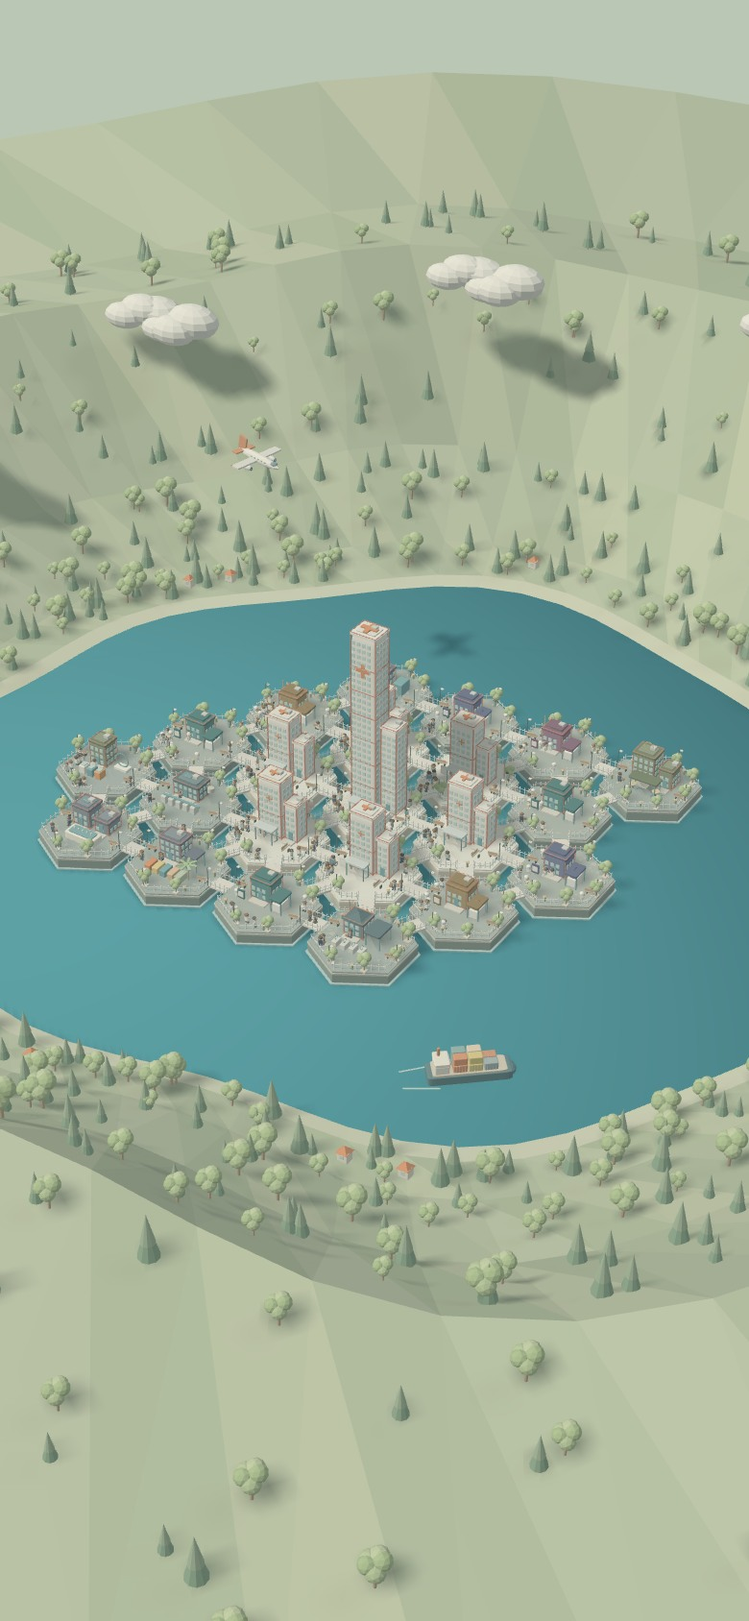
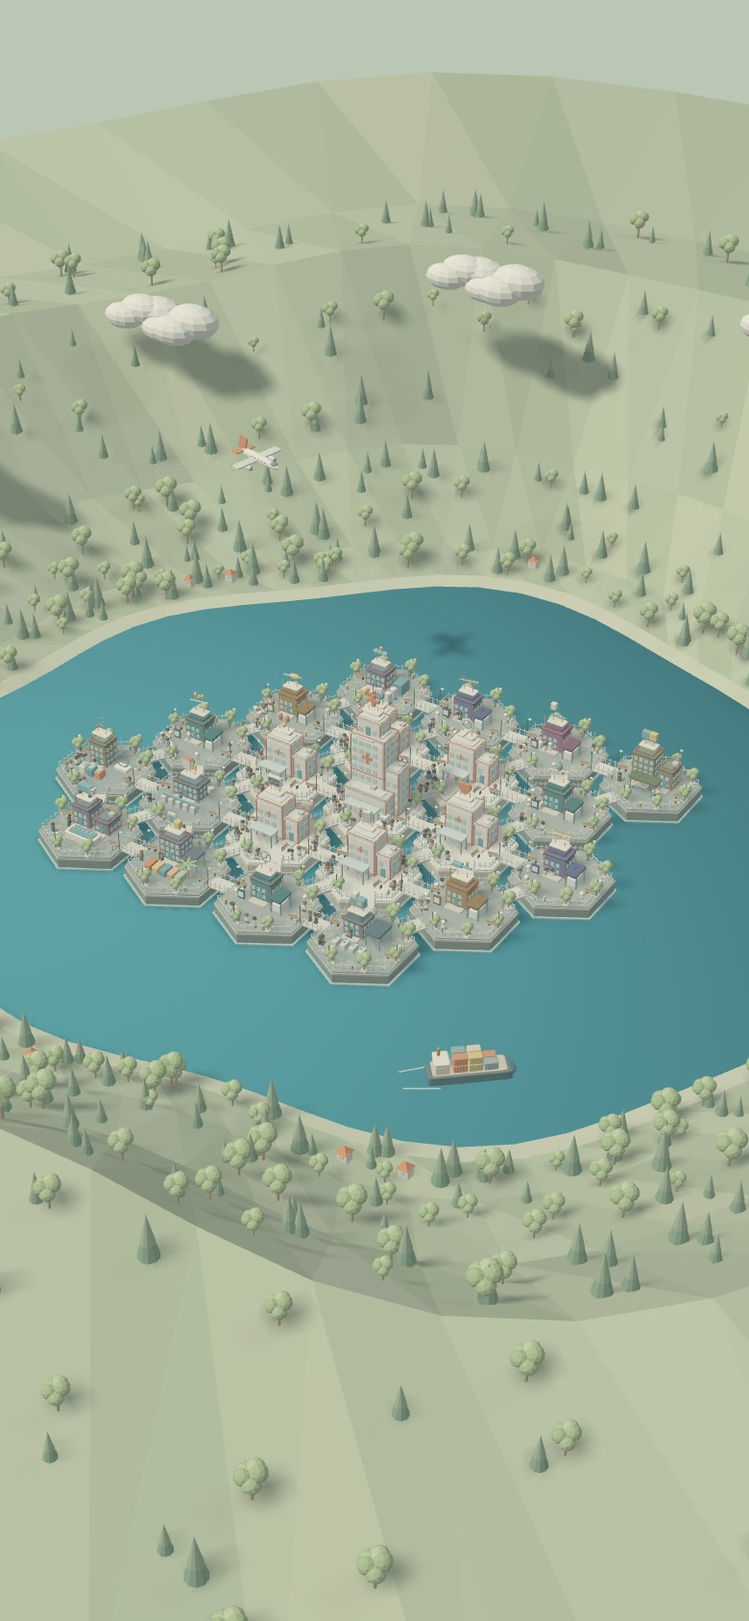
Reshape hospital into a stepped campus and add district rooftop emblems

diff --git a/island-model.js b/island-model.js
@@ -1,7 +1,8 @@
 // Procedural medical town. All architecture and characters are generated here.
 export function buildMedicalTown(T,RoundedBoxGeometry,definitions){
- const root=new T.Group(),parts=[],actors=[],lamps=[],tileCenters=[],doors=[],windowColors=[];
+ const root=new T.Group(),parts=[],actors=[],lamps=[],tileCenters=[],doors=[],windowColors=[],roofs=[],rooftopSymbols=[];
  const G={box:new T.BoxGeometry(1,1,1),round:new RoundedBoxGeometry(1,1,1,2,.09),cyl:new T.CylinderGeometry(.5,.5,1,12),cone:new T.ConeGeometry(.5,1,10),ball:new T.SphereGeometry(.5,12,8),leaf:new T.IcosahedronGeometry(.5,1),hex:new T.CylinderGeometry(.5,.5,1,6),roof:new T.ConeGeometry(.5,1,4),ring:new T.TorusGeometry(.5,.055,8,24)};
+ const heart=new T.Shape();heart.moveTo(0,-.35);heart.bezierCurveTo(-.65,.05,-.35,.60,0,.27);heart.bezierCurveTo(.35,.60,.65,.05,0,-.35);G.heart=new T.ExtrudeGeometry(heart,{depth:.12,bevelEnabled:true,bevelThickness:.025,bevelSize:.025,bevelSegments:1,steps:1,curveSegments:12});
  const C={cream:0xf7f0df,white:0xf6f6ec,coral:0xd96e43,orange:0xe3894e,teal:0x538d95,glass:0xa9d5d2,brown:0xa58263,wood:0xbc9774,ink:0x3c4a48,green:0x89a870,lime:0xaac186,sand:0xe1cd9f,gray:0xc6c6b8};
  // Pale clinical buildings form the center; deeper industrial colors frame them.
  function districtPalette(d){
@@ -32,11 +33,12 @@ export function buildMedicalTown(T,RoundedBoxGeometry,definitions){
  function planter(x,z){box(x,TOP+.09,z,.26,.18,.26,0xc18f6f);bush(x,z,.15)}
  function bin(x,z){box(x,TOP+.17,z,.11,.33,.12,0x739a91);box(x,TOP+.34,z,.13,.035,.14,C.ink)}
  function bunting(a,b){beam(a,b,.009,C.ink);const n=12;for(let j=1;j<n;j++){const f=j/n,x=a[0]+(b[0]-a[0])*f,y=a[1]+(b[1]-a[1])*f-Math.sin(f*Math.PI)*.10,z=a[2]+(b[2]-a[2])*f;box(x,y-.055,z,.07,.11,.018,[C.coral,0xe8c46f,C.teal,C.cream][j%4])}}
- function windows(x,z,w,h,d,y=TOP){for(let floor=0;floor<Math.floor(h/.3);floor++)for(let col=0;col<Math.max(1,Math.floor(w/.25));col++){const xx=x-w/2+.14+col*.25,yy=y+.22+floor*.3;box(xx,yy,z+d/2+.012,.16,.18,.025,C.glass);windowColors.push(parts.length-1)}for(let floor=0;floor<Math.floor(h/.3);floor++)for(let col=0;col<Math.max(1,Math.floor(d/.25));col++){box(x+w/2+.012,y+.22+floor*.3,z-d/2+.14+col*.25,.025,.18,.16,C.glass);windowColors.push(parts.length-1)}}
- function building(x,z,w,h,d,roof=C.coral,modern=false){if(owner>=0&&!doors[owner])doors[owner]={x,z:z+d/2+.035,tile:owner};const palette=currentPalette();if(palette?.clinical)h*=definitions[owner].id==='hospital'?4:2.5;if(palette&&!palette.clinical)roof=palette.roof;box(x,TOP+h/2,z,w,h,d,palette?.wall??C.cream);windows(x,z,w,h-.08,d);box(x,TOP+h+.035,z,w+.10,.10,d+.1,roof);if(modern){box(x,TOP+h+.10,z,w*.76,.08,d*.68,palette&&!palette.clinical?palette.wall:0xe8e5d9);box(x+.18,TOP+h+.2,z-.10,.25,.15,.22,0xc5cac5)}else{p('roof',x,TOP+h+.16,z,w*1.5,.27,d*1.5,roof,Math.PI/4)}// Architectural trim follows the wall volume rather than every window.
- const trim=0xc6604c,stroke=palette?.clinical?.035:.025;for(const dx of [-w/2,w/2])for(const dz of [-d/2,d/2])p('box',x+dx,TOP+h/2,z+dz,stroke,h,stroke,trim);
- for(const yy of [TOP+.05,TOP+h+.09,...Array.from({length:Math.max(0,Math.floor(h/1.15)-1)},(_,j)=>TOP+(j+1)*1.15)]){p('box',x,yy,z+d/2+.012,w+.035,stroke,.028,trim);p('box',x,yy,z-d/2-.012,w+.035,stroke,.028,trim);p('box',x-w/2-.012,yy,z,.028,stroke,d+.035,trim);p('box',x+w/2+.012,yy,z,.028,stroke,d+.035,trim)}
- box(x,TOP+.24,z+d/2+.03,.20,.48,.04,C.teal);box(x,TOP+.04,z+d/2+.19,w*.8,.08,.32,0xd8d5c8)}
+ function windows(x,z,w,h,d,y=TOP){const clinical=currentPalette()?.clinical,py=clinical?.42:.30,px=clinical?.34:.25,ww=clinical?.23:.16,wh=clinical?.24:.18;for(let floor=0;floor<Math.floor(h/py);floor++)for(let col=0;col<Math.max(1,Math.floor(w/px));col++){const xx=x-w/2+px*.56+col*px,yy=y+.25+floor*py;box(xx,yy,z+d/2+.012,ww,wh,.025,C.glass);windowColors.push(parts.length-1)}for(let floor=0;floor<Math.floor(h/py);floor++)for(let col=0;col<Math.max(1,Math.floor(d/px));col++){box(x+w/2+.012,y+.25+floor*py,z-d/2+px*.56+col*px,.025,wh,ww,C.glass);windowColors.push(parts.length-1)}}
+ function building(x,z,w,h,d,roof=C.coral,modern=false,base=TOP){if(owner>=0&&!doors[owner])doors[owner]={x,z:z+d/2+.035,tile:owner};const palette=currentPalette();if(palette?.clinical)h*=definitions[owner].id==='hospital'?2:1.5;if(palette&&!palette.clinical)roof=palette.roof;box(x,base+h/2,z,w,h,d,palette?.wall??C.cream);windows(x,z,w,h-.08,d,base);box(x,base+h+.035,z,w+.10,.10,d+.1,roof);if(modern){box(x,base+h+.10,z,w*.76,.08,d*.68,palette&&!palette.clinical?palette.wall:0xe8e5d9);box(x+.18,base+h+.2,z-.10,.25,.15,.22,0xc5cac5)}else{p('roof',x,base+h+.16,z,w*1.5,.27,d*1.5,roof,Math.PI/4)}if(owner>=0&&(!roofs[owner]||base+h>roofs[owner].y))roofs[owner]={x,z,y:base+h+.34};
+ // Architectural trim follows the wall volume rather than every window.
+ const trim=0xc6604c,stroke=palette?.clinical?.035:.025;for(const dx of [-w/2,w/2])for(const dz of [-d/2,d/2])p('box',x+dx,base+h/2,z+dz,stroke,h,stroke,trim);
+ for(const yy of [base+.05,base+h+.09,...(h>2.5?[base+h*.50]:[])]){p('box',x,yy,z+d/2+.012,w+.035,stroke,.028,trim);p('box',x,yy,z-d/2-.012,w+.035,stroke,.028,trim);p('box',x-w/2-.012,yy,z,.028,stroke,d+.035,trim);p('box',x+w/2+.012,yy,z,.028,stroke,d+.035,trim)}
+ box(x,base+.24,z+d/2+.03,.20,.48,.04,C.teal);box(x,base+.04,z+d/2+.19,w*.8,.08,.32,0xd8d5c8)}
  function cross(x,y,z,size=.28){box(x,y,z,size,.07,size*.27,C.coral);box(x,y,z,size*.27,.07,size,C.coral)}
  function canopy(x,z,w=1.3,d=.6){for(const dx of [-w*.43,w*.43])for(const dz of [-d*.4,d*.4])cyl(x+dx,TOP+.33,z+dz,.025,.66,C.teal);box(x,TOP+.68,z,w,.09,d,currentPalette()?.roof??C.coral)}
  function tank(x,z,r=.25,h=.65){cyl(x,TOP+h/2,z,r,h,0xe4e8df);ball(x,TOP+h,z,r,0xe7ebe2,[1,.35,1]);cyl(x,TOP+.10,z,r*1.08,.08,C.teal);beam([x+r,TOP+.30,z],[x+r+.28,TOP+.30,z],.04,C.teal)}
@@ -66,7 +68,7 @@ export function buildMedicalTown(T,RoundedBoxGeometry,definitions){
  function ambulance(x,z,ry=0){box(x,TOP+.17,z,.35,.27,.72,C.white,ry);box(x,TOP+.37,z-.12,.31,.18,.35,C.white,ry);box(x,TOP+.39,z+.075,.32,.15,.025,C.glass,ry);box(x,TOP+.50,z-.13,.16,.045,.07,C.coral,ry);for(const dx of [-.19,.19])for(const dz of [-.22,.22])p('cyl',x+dx,TOP+.075,z+dz,.15,.045,.15,0x49524a,0,Math.PI/2);cross(x,TOP+.315,z+.1,.18)}
  function tables(x,z){cyl(x,TOP+.23,z,.17,.035,0xe2c086);cyl(x,TOP+.12,z,.025,.23,C.ink);for(let j=0;j<3;j++){const a=j*2.094;box(x+Math.cos(a)*.23,TOP+.13,z+Math.sin(a)*.23,.13,.03,.13,C.teal);cyl(x+Math.cos(a)*.23,TOP+.07,z+Math.sin(a)*.23,.012,.13,C.ink)}}
 
- function clinic(x,z,d){const roof=new T.Color(d.color).lerp(new T.Color(0xf6f1e3),.62).getHex();building(x-.30,z-.35,1.12,1.10,.90,roof,true);building(x+.65,z-.40,.60,.70,.72,roof,true);cross(x-.30,TOP+1.10*2.5+.19,z-.35,.46);box(x-.30,TOP+1.9,z+.115,.30,.065,.035,C.coral);box(x-.30,TOP+1.9,z+.115,.065,.30,.035,C.coral);canopy(x-.25,z+.48,.95,.44);bench(x+.85,z+.65,Math.PI/2);box(x-.90,TOP+.45,z+.52,.33,.42,.045,roof);box(x-.90,TOP+.45,z+.55,.24,.24,.015,C.white)}
+ function clinic(x,z,d){const roof=new T.Color(d.color).lerp(new T.Color(0xf6f1e3),.42).getHex();building(x-.30,z-.35,1.30,1.10,.95,roof,true);building(x+.70,z-.40,.65,.70,.78,roof,true);box(x-.30,TOP+1.12,z+.14,.30,.065,.035,C.coral);box(x-.30,TOP+1.12,z+.14,.065,.30,.035,C.coral);canopy(x-.25,z+.63,1.18,.50);bench(x+.85,z+.65,Math.PI/2);box(x-.98,TOP+.45,z+.52,.33,.42,.045,roof);box(x-.98,TOP+.45,z+.55,.24,.24,.015,C.white)}
  function techLab(x,z,d){const color=districtPalette(d).roof;building(x-.34,z-.40,.98,.92,.82,color,true);box(x-.34,TOP+1.08,z-.40,.80,.09,.60,color);canopy(x+.63,z+.03,.57,.85);box(x+.63,TOP+.22,z+.03,.40,.42,.62,C.white);box(x+.63,TOP+.46,z+.03,.30,.055,.48,color);box(x-.94,TOP+.43,z+.52,.34,.44,.05,color);box(x-.94,TOP+.43,z+.555,.25,.25,.02,C.white);if(d.family==='surface'){for(let j=0;j<3;j++){cyl(x+.5+j*.13,TOP+.53,z+.04,.035,.16,C.glass)}}else if(d.family==='structure'){p('ring',x+.63,TOP+.65,z+.03,.29,.29,.20,color,Math.PI/2)}else if(d.family==='forming'){ball(x+.63,TOP+.62,z+.03,.15,color,[1.2,1,.7])}else{beam([x+.63,TOP+.63,z-.1],[x+.63,TOP+.48,z+.16],.028,color)}}
  function courtyard(t){const {x,z,i}=t,d=definitions[i],palette=districtPalette(d);owner=i;
  p('hex',x,.10,z,R*2.09,.06,R*2.09,0x94c6c8);p('hex',x,.32,z,R*2,.42,R*2,palette.base);p('hex',x,.56,z,R*2.015,.08,R*2.015,palette.clinical?C.cream:0xb5bba9);p('hex',x,.63,z,R*1.98,.065,R*1.98,palette.ground);
@@ -93,14 +95,48 @@ export function buildMedicalTown(T,RoundedBoxGeometry,definitions){
  case 9:building(X-.5,Z-.48,.9,.7,.8);canopy(X+.52,Z-.3,.75,1.0);for(let j=0;j<4;j++){box(X-.8+j*.4,TOP+.13,Z+.67,.24,.25,.4,0xd4d9cd);p('ring',X-.8+j*.4,TOP+.35,Z+.67,.17,.17,.17,C.teal,Math.PI/2)}break;
  case 10:building(X-.5,Z-.5,.85,.9,.9,C.coral,true);building(X+.55,Z-.5,.7,.58,.85,C.white,true);box(X+.15,TOP+.18,Z+.65,1.5,.36,.65,C.cream);box(X+.15,TOP+.38,Z+.65,1.2,.055,.48,C.teal);for(let j=0;j<5;j++)cyl(X-.3+j*.22,TOP+.45,Z+.65,.035,.10,C.cream);solar(X-.5,TOP+1.06,Z-.5);break;
  case 11:building(X-.45,Z-.45,.85,1.1,.8,C.coral,true);p('ring',X+.65,TOP+.50,Z-.35,.64,.64,.30,C.teal);box(X+.65,TOP+.10,Z-.35,.7,.15,.4,C.white);for(let j=0;j<3;j++){box(X-.65+j*.42,TOP+.20,Z+.65,.32,.38,.42,[C.cream,C.teal,C.orange][j]);box(X-.65+j*.42,TOP+.41,Z+.65,.22,.05,.25,C.glass)}break;
- case 12:building(X-.42,Z-.30,1.20,2.10,1.02,C.white,true);building(X+.72,Z-.38,.75,1.05,.85,C.white,true);cross(X-.42,TOP+2.10*4+.18,Z-.30,.78);box(X-.42,TOP+6.8,Z+.225,.66,.16,.05,C.coral);box(X-.42,TOP+6.8,Z+.225,.16,.66,.05,C.coral);canopy(X,Z+.78,1.45,.48);ambulance(X+.92,Z+.72);statue(X-1.08,Z-.98);break;
+ case 12:building(X,Z+.43,2.10,.55,.65,0xb9d3ce,true);building(X-.25,Z-.40,1.65,1.75,1.12,0xcbdcd5,true);building(X-.32,Z-.43,1.15,.35,.78,0xcbdcd5,true,TOP+3.5);building(X+.85,Z-.42,.70,1.05,.87,0xb9d3ce,true);box(X-.25,TOP+2.55,Z+.18,.52,.13,.05,C.coral);box(X-.25,TOP+2.55,Z+.18,.13,.52,.05,C.coral);canopy(X,Z+.96,1.60,.48);ambulance(X+1.03,Z+.90);statue(X-1.12,Z-.98);break;
  case 13:building(X-.45,Z-.55,1.05,1.0,.8,C.coral,true);canopy(X+.65,Z-.35,.6,.7);for(let j=0;j<5;j++)box(X-.85+j*.38,TOP+.16,Z+.65,.30,.31,.57,[C.coral,0xe5bf6d,C.teal,0xd9a879,0xa8bc9c][j]);palm(X+.9,Z+.5,.8);break;
  case 14:building(X-.40,Z-.38,1.0,1.35,.88,0x73989e,true);building(X+.65,Z-.43,.62,.9,.80,0x73989e,true);canopy(X,Z+.58,1.35,.60);tables(X-.55,Z+.62);tables(X+.55,Z+.62);p('ring',X-.40,TOP+1.63,Z-.38,.40,.40,.14,0xc8a258);break;
  }
  if(d.role==='factory'){for(let j=0;j<5;j++){const a=j/5*Math.PI*2,px=X+Math.sin(a)*1.30,pz=Z+Math.cos(a)*1.30;cyl(px,TOP+.13,pz,.035,.26,C.gray);box(px,TOP+.28,pz,.30,.045,.25,C.white);box(px,TOP+.37,pz,.16,.14,.10,C.teal)}}
  if(i%3===0){cyl(X-1.25,TOP+.48,Z-.95,.028,.95,C.wood);cyl(X+1.25,TOP+.48,Z-.95,.028,.95,C.wood);bunting([X-1.25,TOP+.95,Z-.95],[X+1.25,TOP+.95,Z-.95]);}
  }
+ // One physical rooftop emblem per district; auxiliary buildings stay uncluttered.
+ function roofEmblem(i){const a=roofs[i],d=definitions[i];if(!a)return;owner=i;const x=a.x,z=a.z,y=a.y+.38,red=0xd37452,blue=0x649da6,ivory=0xf4e9d5,gold=0xe6bd68;
+  box(x,a.y+.015,z,.80,.055,.50,ivory);for(const dx of [-.22,.22])beam([x+dx,a.y-.18,z],[x+dx,y-.12,z],.026,C.brown);
+  const b=(dx,dy,dz,w,h,l,c=blue)=>box(x+dx,y+dy,z+dz,w,h,l,c),v=(A,B,r=.04,c=blue)=>beam([x+A[0],y+A[1],z+A[2]],[x+B[0],y+B[1],z+B[2]],r,c),sphere=(dx,dy,dz,r,c=blue,s=[1,1,1])=>ball(x+dx,y+dy,z+dz,r,c,s),ring=(dx,dy,dz,s,c=blue,ry=0)=>p('ring',x+dx,y+dy,z+dz,s,s,s,c,ry);
+  const tube=(color=blue)=>{v([-.48,.10,0],[.45,.23,0],.055,color);sphere(.45,.23,0,.04,color)};
+  let label='';
+  switch(d.id){
+   case'hospital':label='醫療十字';b(0,.14,0,.57,.15,.14,red);b(0,.14,0,.15,.57,.14,red);break;
+   case'cardio':label='心臟與血管';p('heart',x,y+.06,z,.75,.75,.75,red);v([.05,.35,0],[.05,.55,0],.065,blue);break;
+   case'nephro':label='透析濾器';b(0,.13,0,.38,.55,.20,ivory);for(let k=-2;k<=2;k++)v([k*.055,-.10,.12],[k*.055,.35,.12],.018,blue);v([-.35,-.15,0],[-.35,.40,0],.035,red);v([-.35,.40,0],[0,.44,0],.035,red);break;
+   case'icu':label='生理監視器';b(0,.14,0,.66,.45,.16,ivory);b(0,.14,.09,.56,.33,.025,0x365e65);for(const[A,B]of [[[-.24,.12,.11],[-.10,.12,.11]],[[-.10,.12,.11],[-.04,.25,.11]],[[-.04,.25,.11],[.03,.02,.11]],[[.03,.02,.11],[.10,.17,.11]],[[.10,.17,.11],[.25,.17,.11]]])v(A,B,.023,gold);break;
+   case'uro':label='泌尿道示意';sphere(-.18,.26,0,.14,red,[.75,1.3,.55]);sphere(.18,.26,0,.14,red,[.75,1.3,.55]);v([-.16,.15,0],[0,-.10,0],.025,blue);v([.16,.15,0],[0,-.10,0],.025,blue);sphere(0,-.10,0,.11,gold);break;
+   case'ward':label='輸液袋';v([-.28,-.18,0],[-.28,.55,0],.025,C.ink);v([-.28,.55,0],[.14,.55,0],.025,C.ink);b(.07,.23,0,.29,.42,.13,ivory);b(.07,.15,.08,.22,.16,.025,blue);v([.07,.02,0],[.29,-.18,0],.025,blue);break;
+   case'radiology':label='影像掃描環';ring(0,.18,0,.56,ivory);ring(0,.18,.02,.39,blue);b(0,-.12,.22,.23,.08,.65,ivory);break;
+   case't-balloon':label='球囊導管';tube(ivory);sphere(.12,.18,0,.17,gold,[1.65,.75,.75]);ring(-.33,.12,0,.15,blue,Math.PI/2);break;
+   case't-braid':label='編織管';tube(ivory);for(const side of [-1,1])for(let k=0;k<2;k++)for(let n=0;n<22;n++){const q=n/22,r=(n+1)/22,A=q*Math.PI*5*side+k*Math.PI,B=r*Math.PI*5*side+k*Math.PI;v([-.44+q*.88,.16+Math.cos(A)*.13,Math.sin(A)*.13],[-.44+r*.88,.16+Math.cos(B)*.13,Math.sin(B)*.13],.022,side<0?red:blue)}break;
+   case't-coil':label='繞簧管';tube(ivory);for(let n=0;n<65;n++){const q=n/65,r=(n+1)/65,A=q*Math.PI*16,B=r*Math.PI*16;v([-.42+q*.84,.17+Math.cos(A)*.14,Math.sin(A)*.14],[-.42+r*.84,.17+Math.cos(B)*.14,Math.sin(B)*.14],.026,gold)}break;
+   case't-extrude':label='變徑管段';v([-.44,.15,0],[-.02,.15,0],.23,blue);v([-.02,.15,0],[.42,.15,0],.10,blue);ring(-.43,.15,0,.24,ivory,Math.PI/2);ring(.42,.15,0,.11,ivory,Math.PI/2);break;
+   case't-laser':label='雷射加工頭';b(-.20,.38,0,.25,.31,.22,ivory);v([-.20,.22,0],[.18,-.05,0],.025,red);v([-.25,-.08,0],[.40,-.08,0],.10,blue);sphere(.18,-.05,0,.06,gold);break;
+   case't-hydro':label='水滴與導管';tube(ivory);sphere(0,.36,0,.17,blue,[.8,1,.65]);p('cone',x,y+.53,z,.19,.25,.16,blue);break;
+   case't-anti-bac':label='細菌阻隔示意';tube(ivory);ring(0,.32,0,.46,blue);v([-.19,.12,.04],[.19,.52,.04],.045,red);sphere(0,.32,0,.065,gold);for(let n=0;n<6;n++){const q=n*Math.PI/3;v([Math.cos(q)*.06,.32+Math.sin(q)*.06,0],[Math.cos(q)*.12,.32+Math.sin(q)*.12,0],.018,gold)}break;
+   case't-anti-enc':label='結晶阻隔示意';tube(ivory);for(let k=-1;k<=1;k++)p('leaf',x+k*.19,y+.40+Math.abs(k)*.07,z,.18,.24,.14,gold);v([-.29,.22,.10],[.29,.57,.10],.043,red);break;
+   case'materials':label='原料袋與粒子';b(-.13,.14,0,.38,.48,.25,ivory);b(-.13,.38,0,.36,.045,.25,red);for(let k=0;k<5;k++)sphere(.14+(k%2)*.14,.02+Math.floor(k/2)*.10,.05,.065,gold);break;
+   case'components':label='接頭零件';v([-.37,.15,0],[.37,.15,0],.18,blue);ring(-.23,.15,0,.26,ivory,Math.PI/2);ring(.23,.15,0,.26,ivory,Math.PI/2);v([0,.15,0],[0,.43,0],.14,gold);break;
+   case'equipment':label='加工設備';b(0,.09,0,.65,.38,.30,blue);b(-.15,.36,0,.24,.22,.25,ivory);b(.14,.12,.17,.20,.16,.025,gold);v([-.15,.24,0],[-.15,.02,0],.05,red);break;
+   case'packaging':label='醫材包裝袋';b(-.12,.15,0,.40,.54,.09,ivory);b(-.12,.16,.06,.28,.33,.025,blue);b(.24,.06,.10,.28,.32,.27,gold);b(.24,.06,.25,.045,.32,.015,ivory);break;
+   case'validation':label='檢測放大鏡';ring(.02,.23,0,.40,blue);v([-.12,.08,0],[-.34,-.17,0],.075,red);v([-.06,.19,.02],[.01,.11,.02],.025,gold);v([.01,.11,.02],[.12,.29,.02],.025,gold);break;
+   case'logistics':label='物流貨車';b(0,.10,0,.68,.34,.28,blue);b(.34,.06,0,.24,.27,.28,ivory);b(.36,.16,.15,.15,.09,.025,blue);for(const dx of [-.22,.32])sphere(dx,-.11,.15,.085,C.ink);break;
+   case'oem':label='合作拼接模組';b(-.16,.13,0,.35,.36,.24,blue);b(.18,.13,0,.35,.36,.24,gold);sphere(0,.16,.02,.09,ivory);break;
+  }
+  rooftopSymbols.push({tile:i,label,x,z,y:a.y});
+ }
+
  tileCenters.forEach(courtyard);
+ tileCenters.forEach(c=>roofEmblem(c.i));
  // Short canal crossings are walking passages; they do not encode content relationships.
  const routes=[];owner=-1;
  tileCenters.forEach(a=>edgeSteps.forEach((_,edge)=>{const other=neighbor(a.i,edge);if(other===undefined||other<=a.i)return;const b=tileCenters[other],len=Math.hypot(b.x-a.x,b.z-a.z),dx=(b.x-a.x)/len,dz=(b.z-a.z)/len,ry=Math.atan2(dx,dz),start=[a.x+dx*1.68,a.z+dz*1.68],end=[b.x-dx*1.68,b.z-dz*1.68];routes.push({a:a.i,b:other,kind:'walkway'});box((a.x+b.x)/2,TOP-.05,(a.z+b.z)/2,.70,.10,len-3.36,0xe3ddd0,ry);for(const side of [-1,1]){const nx=dz*.34*side,nz=-dx*.34*side;fence(start[0]+nx,start[1]+nz,end[0]+nx,end[1]+nz,0)}}));
@@ -186,5 +222,5 @@ export function buildMedicalTown(T,RoundedBoxGeometry,definitions){
   root.updateMatrixWorld(true);for(const{mesh,color}of vehicleMeshes){if(!mesh.parent.visible)continue;const pos=new T.Vector3(),q=new T.Quaternion(),scale=new T.Vector3();mesh.matrixWorld.decompose(pos,q,scale);const e=new T.Euler().setFromQuaternion(q),geo=mesh.geometry;out.push({kind:'transport',positions:Array.from(geo.attributes.position.array),indices:geo.index?Array.from(geo.index.array):null,items:[{pos:pos.toArray(),scale:scale.toArray(),rot:[e.x,e.y,e.z],color}]})}
   return {centers:tileCenters,batches:out,landscape};
  }
- return Object.assign(api,{root,tileCenters,landscape,transport,vehicles,updateTransport,staticMeshes,parts,actors,geometries:G,updatePeople,setNight,lamps,routes,doors,navigation:{nodes,doorIds,stations},constants:{TOP,R},exportRender});
+ return Object.assign(api,{root,tileCenters,rooftopSymbols,roofs,landscape,transport,vehicles,updateTransport,staticMeshes,parts,actors,geometries:G,updatePeople,setNight,lamps,routes,doors,navigation:{nodes,doorIds,stations},constants:{TOP,R},exportRender});
 }

diff --git a/island.html b/island.html
@@ -133,7 +133,7 @@ function detailBody(t){if(t.type==='dept'){
 }
 function showList(){window.medtechScene?.home();window.previewMarker?.select(-1);$('#personCard')?.remove();selected=null;window.syncPreviewRelations?.();resetHighlights();target.x=0;target.z=0;target.zoom=1;querySeq++;recordSeq++;$('#sceneTitle').textContent='點編號探索醫材分區。';$('#sideContent').innerHTML=`<h2>把需求，連起來。</h2><p class="side-lead">以蜂窩排列的醫材分區，地塊間保留水道與短橋，外圍以山林湖岸環繞。中央醫院、六個科別，連結技術與供應服務。點科別看產品，開啟「關聯」看對應。</p><div class="searchwrap"><input id="listSearch" type="search" placeholder="搜尋產品、技術、關鍵字…" aria-label="搜尋地塊" value="${esc(listQuery)}"></div><div class="filtertabs"><button data-filter="all">全部</button><button data-filter="dept">科別</button><button data-filter="tech">技術分區</button><button data-filter="supplier">供應服務</button><button data-filter="market">醫院與客戶</button></div><div class="tile-list" id="tileList"></div><div class="side-foot"><span class="live-dot"></span>商情資料來自歐噴資料庫。<br>蜂窩分區供內容導覽，相鄰不代表合作。產品與技術對應請看「關聯」；＊為推定或待確認。</div>`;renderList();$('#listSearch').addEventListener('input',e=>{listQuery=e.target.value;renderList()})}
 function renderList(){const q=listQuery.trim().toLowerCase(),hits=C.products.filter(p=>p.name.toLowerCase().includes(q)),list=tiles.filter(t=>(filter==='all'||t.type===filter)&&((t.name+t.en+t.tags.join('')).toLowerCase().includes(q)||hits.some(p=>p.dept===t.id)));$('#tileList').innerHTML=list.length?list.map(t=>`<button class="tile-item" data-tile="${t.i}"><span class="tile-icon" style="background:${t.color}">${t.icon}</span><span><span class="title">${t.name}</span><span class="subtitle">${t.en}</span>${q&&hits.some(p=>p.dept===t.id)?`<small class="search-match">含：${hits.filter(p=>p.dept===t.id).map(p=>esc(p.name)).join('、')}</small>`:''}</span><span class="arrow">↗</span></button>`).join(''):'<p class="empty">沒有相符的方向，請換個關鍵字。</p>';document.querySelectorAll('[data-filter]').forEach(b=>b.classList.toggle('active',b.dataset.filter===filter))}
-function choose(i){if(!tiles[i])return;resetHighlights();$('#personCard')?.remove();window.previewMarker?.select(i);selected=tiles[i];window.syncPreviewRelations?.();window.medtechScene?.focus(i);target.x=selected.x;target.z=selected.z;target.zoom=1.32;$('#sceneTitle').textContent=selected.name+' · '+selected.tags.join('／');$('#sideContent').innerHTML=`<button class="back" id="backList">← 回到探索清單</button><div class="detail-top"><div class="thumb-wrap"><img id="detailThumb" src="town-preview.jpg?v=14" alt="${selected.name}島嶼場景"><span>${selected.icon}</span></div><div><p class="detail-num">${String(i+1).padStart(2,'0')} / ${selected.en}</p><h2>${selected.name}</h2></div></div><p class="side-lead">${esc(selected.description)}</p><div class="tags">${selected.tags.map(t=>`<span>${esc(t)}</span>`).join('')}</div>${detailBody(selected)}<section class="public-query"><h3 class="results-heading">歐噴資料庫查詢</h3><form class="query-form" id="queryForm"><input id="query" aria-label="歐噴關鍵字" value="${selected.query}" required><button class="primary">搜尋 ↗</button></form>${authHTML()}<div id="queryResults"><p class="status">正在搜尋公開索引…</p></div><div id="records"></div><p class="source-note">來源：<a href="https://data.openfun.tw/" target="_blank" rel="noopener noreferrer">歐噴資料庫</a>。索引條目不等同採購需求，請核對原始來源。</p></section>`;$('#sidebar').scrollTop=0;document.body.classList.add('panel-open');runQuery(selected.query)}
+function choose(i){if(!tiles[i])return;resetHighlights();$('#personCard')?.remove();window.previewMarker?.select(i);selected=tiles[i];window.syncPreviewRelations?.();window.medtechScene?.focus(i);target.x=selected.x;target.z=selected.z;target.zoom=1.32;$('#sceneTitle').textContent=selected.name+' · '+selected.tags.join('／');$('#sideContent').innerHTML=`<button class="back" id="backList">← 回到探索清單</button><div class="detail-top"><div class="thumb-wrap"><img id="detailThumb" src="town-preview.jpg?v=15" alt="${selected.name}島嶼場景"><span>${selected.icon}</span></div><div><p class="detail-num">${String(i+1).padStart(2,'0')} / ${selected.en}</p><h2>${selected.name}</h2></div></div><p class="side-lead">${esc(selected.description)}</p><div class="tags">${selected.tags.map(t=>`<span>${esc(t)}</span>`).join('')}</div>${detailBody(selected)}<section class="public-query"><h3 class="results-heading">歐噴資料庫查詢</h3><form class="query-form" id="queryForm"><input id="query" aria-label="歐噴關鍵字" value="${selected.query}" required><button class="primary">搜尋 ↗</button></form>${authHTML()}<div id="queryResults"><p class="status">正在搜尋公開索引…</p></div><div id="records"></div><p class="source-note">來源：<a href="https://data.openfun.tw/" target="_blank" rel="noopener noreferrer">歐噴資料庫</a>。索引條目不等同採購需求，請核對原始來源。</p></section>`;$('#sidebar').scrollTop=0;document.body.classList.add('panel-open');runQuery(selected.query)}
 function goProduct(id){const p=C.products.find(p=>p.id===id);if(!p)return;choose(tileById(p.dept).i);const el=$('#product-'+id);if(!el)return;el.classList.add('product-highlight');el.scrollIntoView({block:'start',behavior:paused?'auto':'smooth'});setTimeout(()=>el.classList.remove('product-highlight'),2400)}
 function showTechMap(){querySeq++;recordSeq++;selected=null;$('#personCard')?.remove();window.medtechScene?.home();window.previewMarker?.select(-1);resetHighlights();const ordered=['surface','structure','forming','process'].flatMap(f=>C.techs.filter(t=>t.family===f));$('#sceneTitle').textContent='從產品應用，走向技術與共用能力。';$('#sideContent').innerHTML=`<button class="back" id="backList">← 回到探索清單</button><h2>技術地圖</h2><p class="side-lead">八座技術分區，十二項共用能力。點能力欄頭，查看共用能力的技術分區。</p><div class="matrix-scroll" tabindex="0" role="region" aria-label="技術與共用能力矩陣，可左右滑動"><table class="cap-matrix"><caption>技術 × 共用能力</caption><thead><tr><th scope="col">技術分區</th>${C.capabilities.map(c=>`<th scope="col"><button data-capability="${c.id}" aria-pressed="false">${esc(c.name)}</button></th>`).join('')}</tr></thead><tbody>${ordered.map((t,i)=>{const f=C.families[t.family],newFamily=i===0||ordered[i-1].family!==t.family;return `${newFamily?`<tr class="family-row"><th colspan="${C.capabilities.length+1}" style="color:${f.color}">${f.name}</th></tr>`:''}<tr><th scope="row"><button data-tech="${t.id}">${esc(tileById(t.id).name)}</button></th>${C.capabilities.map(c=>`<td class="${c.techs.includes(t.id)?'has-cap':''}">${c.techs.includes(t.id)?`<span style="background:${f.color}" role="img" aria-label="使用${esc(c.name)}"></span>`:'<span class="sr-only">未共用</span>'}</td>`).join('')}</tr>`}).join('')}</tbody></table></div><p class="content-note">＊分區為本站整理。圓點表示能力項目有對應關鍵字，不代表完成度。</p><p id="capStatus" class="status" role="status">選擇能力可標亮島名。</p><h3 class="results-heading">最常共用的能力</h3><div class="common-capabilities">${[...C.capabilities].sort((a,b)=>b.techs.length-a.techs.length).slice(0,5).map(c=>`<button class="person-item" data-capability="${c.id}"><strong>${esc(c.name)}</strong><small>共用 ×${c.techs.length}</small></button>`).join('')}</div>${kmSettings()}<button class="primary copy-state" id="copyState">複製目前狀態</button><p class="content-note">複製技術名稱、紀錄數與紀錄標題；未連線時不填入紀錄數。</p><textarea id="copyFallback" class="copy-fallback" aria-label="目前狀態文字" hidden readonly></textarea>`;$('#sidebar').scrollTop=0;document.body.classList.add('panel-open')}
 
@@ -172,12 +172,12 @@ window.showPersonInfo=p=>{let card=$('#personCard');if(!card){card=document.crea
 window.updatePersonInfo=p=>{if($('#personCard')?.dataset.person===String(p.id)){$('#personTask').textContent=p.task;$('#personCard > small').textContent=p.island}};
 document.addEventListener('click',e=>{const b=e.target.closest('[data-person]');if(b)window.medtechScene?.selectPerson(+b.dataset.person,b.dataset.personView);if(e.target.id==='closePerson'){$('#personCard')?.remove();window.medtechScene?.clearPerson()}});
 window.syncPreviewRelations=()=>{const svg=$('#previewRelations'),anchors=window.previewRelationAnchors;if(!svg||!anchors)return;const related=window.MEDTECH_RELATIONS.filter(r=>selected?(r.a===selected.i||r.b===selected.i):r.kind==='application');svg.style.display=showLinks?'':'none';svg.innerHTML=related.map(r=>{const a=anchors[r.a],b=anchors[r.b],lift=Math.min(95,25+Math.hypot(a.x-b.x,a.y-b.y)*.15);return `<path d="M ${a.x},${a.y} Q ${(a.x+b.x)/2},${(a.y+b.y)/2-lift} ${b.x},${b.y}" fill="none" stroke="${r.inferred?'#b76d44':'#316f77'}" stroke-width="2.3" ${r.inferred?'stroke-dasharray="6 5"':''}/>`}).join('')};
-window.showIslandPreview=note=>{window.previewLabelCleanup?.();const stage=$('#island');stage.style.background='#bdc69b';stage.innerHTML='<img class="scene-fallback" src="town-preview.jpg?v=14" alt="醫院科別、技術與供應服務蜂窩分區預覽"><p class="webgl-note"></p>';stage.querySelector('.webgl-note').textContent=note;const relations=document.createElementNS('http://www.w3.org/2000/svg','svg');relations.id='previewRelations';relations.classList.add('relation-overlay');stage.appendChild(relations);const marker=window.MedtechLabels.create(stage,tiles);window.previewMarker=marker;applyLabelState();marker.root.style.display=showLabels?'':'none';const image=stage.querySelector('img');const update=()=>{const r=stage.getBoundingClientRect(),portrait=r.width/r.height<.8,wanted=portrait?'town-preview-portrait.jpg?v=14':'town-preview.jpg?v=14';if(image.getAttribute('src')!==wanted){marker.root.style.visibility='hidden';image.src=wanted;return}if(!image.complete||!image.naturalWidth)return;marker.root.style.visibility='visible';const iw=portrait?780:1200,ih=portrait?1688:1000,k=Math.min(r.width/iw,r.height/ih),ox=(r.width-iw*k)/2,oy=(r.height-ih*k)/2;const anchors=(portrait?window.MEDTECH_PREVIEW_PORTRAIT_POINTS:window.MEDTECH_PREVIEW_POINTS).map(([u,v])=>({x:ox+u*iw*k,y:oy+v*ih*k}));marker.update(anchors,r.width,r.height);window.previewRelationAnchors=anchors;relations.setAttribute('viewBox',`0 0 ${r.width} ${r.height}`);window.syncPreviewRelations?.()};image.onload=update;const observer=new ResizeObserver(update);observer.observe(stage);update();window.previewLabelCleanup=()=>{observer.disconnect();marker.destroy();relations.remove();window.previewRelationAnchors=null;window.previewMarker=null}};
+window.showIslandPreview=note=>{window.previewLabelCleanup?.();const stage=$('#island');stage.style.background='#bdc69b';stage.innerHTML='<img class="scene-fallback" src="town-preview.jpg?v=15" alt="醫院科別、技術與供應服務蜂窩分區預覽"><p class="webgl-note"></p>';stage.querySelector('.webgl-note').textContent=note;const relations=document.createElementNS('http://www.w3.org/2000/svg','svg');relations.id='previewRelations';relations.classList.add('relation-overlay');stage.appendChild(relations);const marker=window.MedtechLabels.create(stage,tiles);window.previewMarker=marker;applyLabelState();marker.root.style.display=showLabels?'':'none';const image=stage.querySelector('img');const update=()=>{const r=stage.getBoundingClientRect(),portrait=r.width/r.height<.8,wanted=portrait?'town-preview-portrait.jpg?v=15':'town-preview.jpg?v=15';if(image.getAttribute('src')!==wanted){marker.root.style.visibility='hidden';image.src=wanted;return}if(!image.complete||!image.naturalWidth)return;marker.root.style.visibility='visible';const iw=portrait?780:1200,ih=portrait?1688:1000,k=Math.min(r.width/iw,r.height/ih),ox=(r.width-iw*k)/2,oy=(r.height-ih*k)/2;const anchors=(portrait?window.MEDTECH_PREVIEW_PORTRAIT_POINTS:window.MEDTECH_PREVIEW_POINTS).map(([u,v])=>({x:ox+u*iw*k,y:oy+v*ih*k}));marker.update(anchors,r.width,r.height);window.previewRelationAnchors=anchors;relations.setAttribute('viewBox',`0 0 ${r.width} ${r.height}`);window.syncPreviewRelations?.()};image.onload=update;const observer=new ResizeObserver(update);observer.observe(stage);update();window.previewLabelCleanup=()=>{observer.disconnect();marker.destroy();relations.remove();window.previewRelationAnchors=null;window.previewMarker=null}};
 window.MEDTECH_PREVIEW_POINTS=[[0.5,0.490854],[0.58604,0.529857],[0.494423,0.564487],[0.409085,0.523127],[0.41964,0.454425],[0.504921,0.425889],[0.585892,0.460364],[0.329541,0.484574],[0.509295,0.368147],[0.488048,0.648647],[0.312694,0.557344],[0.255218,0.448552],[0.234203,0.516475],[0.754004,0.466369],[0.672422,0.497206],[0.667165,0.431513],[0.58576,0.398839],[0.678384,0.571718],[0.586209,0.608973],[0.397079,0.601281],[0.344415,0.420325],[0.42899,0.39356]];
 window.MEDTECH_PREVIEW_PORTRAIT_POINTS=[[0.5,0.494921],[0.622404,0.516246],[0.492482,0.534809],[0.370633,0.512741],[0.382401,0.474433],[0.506984,0.457865],[0.625095,0.477689],[0.253649,0.491555],[0.51349,0.423351],[0.484366,0.577866],[0.236772,0.531181],[0.141242,0.471197],[0.120514,0.509259],[0.869339,0.480966],[0.747951,0.498309],[0.746127,0.461017],[0.627598,0.441826],[0.749915,0.538461],[0.619504,0.557813],[0.35795,0.55403],[0.26933,0.454733],[0.393349,0.438793]];
 showList();
 setTimeout(()=>{if(!window.medtechScene&&!$('#island').querySelector('.scene-fallback'))window.showIslandPreview('3D 尚未載入，先顯示場景預覽。島名仍可點選查詢。')},15000);
 })();
 </script>
-<script type="module" src="island-scene.js?v=14"></script>
+<script type="module" src="island-scene.js?v=15"></script>
 </body></html>

diff --git a/island-scene.js b/island-scene.js
@@ -1,7 +1,7 @@
 import * as T from 'three';
 import {OrbitControls} from 'three/addons/controls/OrbitControls.js';
 import {RoundedBoxGeometry} from './rounded-box.js';
-import {buildMedicalTown} from './island-model.js?v=14';
+import {buildMedicalTown} from './island-model.js?v=15';
 
 const stage=document.querySelector('#island'),area=document.querySelector('#scene');
 let renderer;
@@ -34,7 +34,7 @@ function start(){
  const clock=new T.Clock(),pointer=new T.Vector2(),raycaster=new T.Raycaster();let down=null;
  function tweenTo(center,distance=15){follow=false;personId=-1;controls.enabled=true;city.hiddenActor=-1;city.updatePeople(time);const direction=camera.position.clone().sub(controls.target).normalize();transition={from:camera.position.clone(),to:center.clone().addScaledVector(direction,distance),targetFrom:controls.target.clone(),targetTo:center.clone(),at:performance.now()};}
  function home(){selected=-1;updateLinks();selectedRing.visible=false;follow=false;const mobile=innerWidth<760,center=new T.Vector3(0,.7,0),direction=new T.Vector3(.47,.60,.65).normalize();const dimensions=area.getBoundingClientRect(),aspect=dimensions.width/dimensions.height,fov=camera.fov*Math.PI/180,vertical=new T.Vector3(.47,.60,.65).normalize(),look=new T.Matrix4().lookAt(vertical,new T.Vector3(0,0,0),new T.Vector3(0,1,0)),right=new T.Vector3().setFromMatrixColumn(look,0),up=new T.Vector3().setFromMatrixColumn(look,1);let required=27;for(const c of [...city.tileCenters,...city.landscape.overview]){const v=new T.Vector3(c.x,1.0,c.z),depth=v.dot(vertical);required=Math.max(required,(Math.abs(v.dot(right))+2.7)/(Math.tan(fov/2)*aspect)+depth,(Math.abs(v.dot(up))+3.0)/Math.tan(fov/2)+depth)}const distance=Math.min(148,required*1.08);tweenTo(center,distance);transition.to.copy(center).addScaledVector(direction,distance);marker.select(-1)}
- function focus(i){selected=i;updateLinks();const c=city.tileCenters[i];selectedRing.position.set(c.x,0,c.z);selectedRing.visible=true;marker.select(i);const isTower=window.MEDTECH_TILES[i].id==='hospital',center=new T.Vector3(c.x,isTower?4:.9,c.z);if(innerWidth<760&&!isTower)center.y=-.2;tweenTo(center,isTower?(innerWidth<760?21:24):(innerWidth<760?10.5:15));thumbnail=performance.now()+1400;}
+ function focus(i){selected=i;updateLinks();const c=city.tileCenters[i];selectedRing.position.set(c.x,0,c.z);selectedRing.visible=true;marker.select(i);const isTower=window.MEDTECH_TILES[i].id==='hospital',center=new T.Vector3(c.x,isTower?2.4:.9,c.z);if(innerWidth<760&&!isTower)center.y=-.2;tweenTo(center,isTower?(innerWidth<760?15:18):(innerWidth<760?10.5:15));thumbnail=performance.now()+1400;}
  window.medtechScene={home,focus,setOptions(o){options={...options,...o};updateLinks();labels.style.display=options.labels?'':'none';linkGroup.visible=options.links;city.transport.visible=options.traffic;boats.forEach(b=>b.visible=options.traffic);birds.forEach(b=>b.g.visible=options.traffic);},setTime(n){timeTarget=n},zoom(factor){follow=false;const d=camera.position.clone().sub(controls.target),len=T.MathUtils.clamp(d.length()/factor,6,150);tweenTo(controls.target.clone(),len)},aerial(on=true){follow=false;personId=-1;controls.enabled=true;city.hiddenActor=-1;city.updatePeople(time);if(!on){selected>=0?focus(selected):home();return}const center=controls.target.clone();transition={from:camera.position.clone(),to:center.clone().add(new T.Vector3(0,32,.1)),targetFrom:controls.target.clone(),targetTo:center,at:performance.now()};},follow(){selectPerson(personId>=0?personId:0)}};
  function resize(){const r=area.getBoundingClientRect();renderer.setSize(r.width,r.height);camera.aspect=r.width/r.height;camera.updateProjectionMatrix()}new ResizeObserver(resize).observe(area);resize();camera.position.set(20,26,29);controls.target.set(0,.6,0);home();
  function labelPositions(){const r=area.getBoundingClientRect();marker.update(city.tileCenters.map(c=>{const v=new T.Vector3(c.x,.93,c.z).project(camera);return{x:(v.x*.5+.5)*r.width,y:(-v.y*.5+.5)*r.height,visible:v.z<1}}),r.width,r.height,{detail:camera.position.distanceTo(controls.target)<25})}
